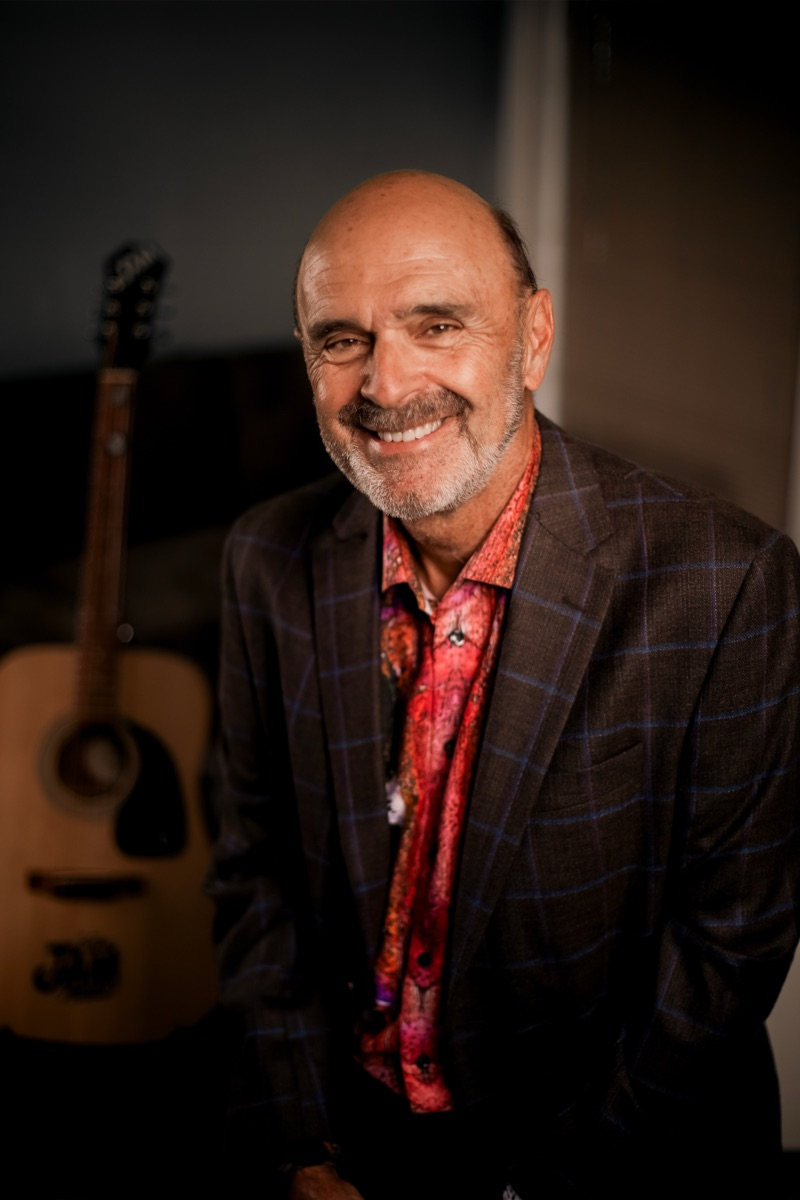
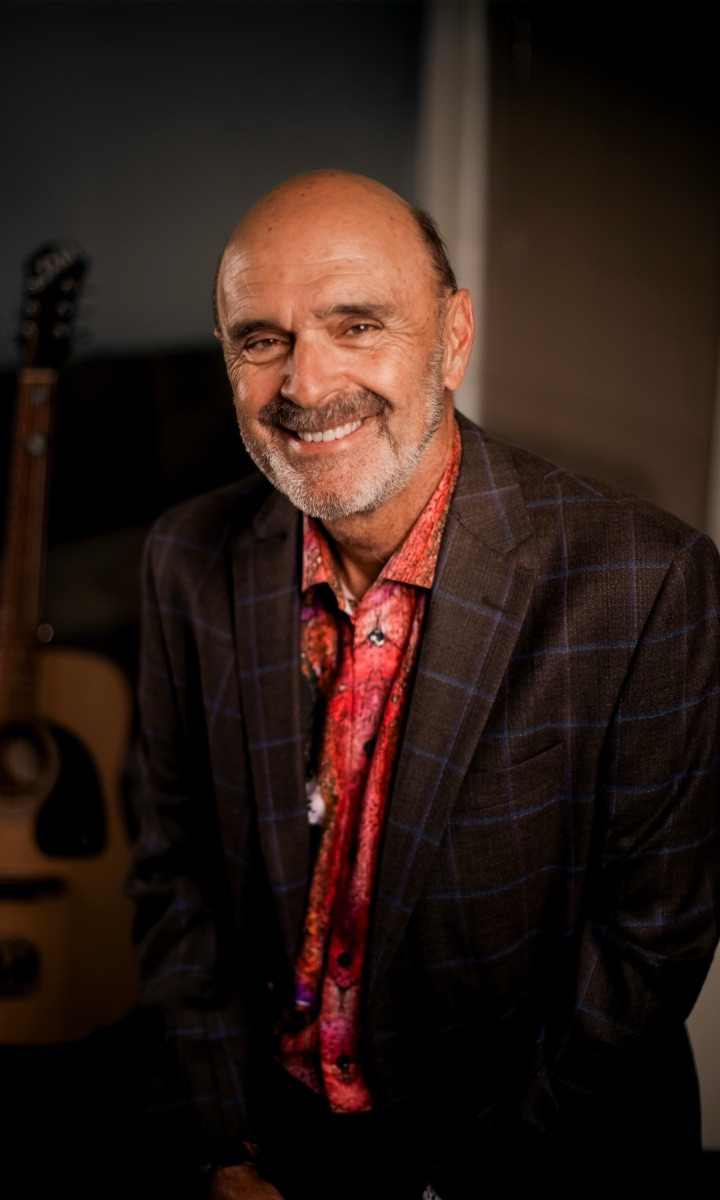
Center Barry LaBov headshot by cropping source image
The card art box is wider than the portrait photo, so the full image
width always shows and object-position can't shift the face; trimmed
200px from the left of the source instead. Also add an optional
headshotPosition field for per-speaker vertical crop tuning.

diff --git a/src/components/Speakers.tsx b/src/components/Speakers.tsx
@@ -17,7 +17,13 @@ function Art({ speaker }: { speaker: Speaker }) {
   if (!placeholder && !failed) {
     return (
       <div className="smspeaker-art">
-        <img src={speaker.headshot} alt={speaker.name} loading="lazy" onError={() => setFailed(true)} />
+        <img
+          src={speaker.headshot}
+          alt={speaker.name}
+          loading="lazy"
+          style={speaker.headshotPosition ? { objectPosition: speaker.headshotPosition } : undefined}
+          onError={() => setFailed(true)}
+        />
       </div>
     )
   }

diff --git a/src/data/speakers.ts b/src/data/speakers.ts
@@ -6,6 +6,8 @@ export interface Speaker {
   bio: string
   /** Path under /public/headshots/, e.g. "/headshots/speaker-1.jpg" */
   headshot: string
+  /** CSS object-position to keep the face centered in the crop (default "50% 12%") */
+  headshotPosition?: string
 }
 
 /**